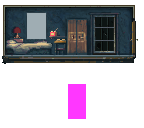
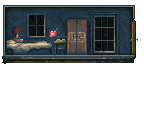
feat: imageLoad bad work(

Changed region(s): [[0.4722, 0.6562, 0.6111, 0.9375], [0.1667, 0.0938, 0.3333, 0.3125]]

diff --git a/src/org/anotherteam/render/GameRender.java b/src/org/anotherteam/render/GameRender.java
@@ -1,4 +1,5 @@
 package org.anotherteam.render;
+import static org.lwjgl.opengl.GL42.*;
 
 import lombok.val;
 import org.anotherteam.Game;
@@ -56,10 +57,10 @@ public final class GameRender {
         textureFrame.end();
 
         raycastShader.bind();
+
         raycastShader.setUniform("player_pos",
                 new Vector2i(EntityManager.player.getPosition().x, EntityManager.player.getPosition().y + 15));
-        raycastShader.setUniform("u_texture1", 1);
-        heightFrame.texture.bind(1);
+        glBindImageTexture(1, heightFrame.texture.getId(), 0, false, 0, GL_READ_ONLY, GL_RGBA8);
         raycastShader.setUniform("u_texture", 0);
         raycastFrame.texture.bind(0);
 

diff --git a/src/org/anotherteam/object/type/entity/player/Player.java b/src/org/anotherteam/object/type/entity/player/Player.java
@@ -8,7 +8,6 @@ import org.anotherteam.object.type.entity.EntityObject;
 import org.anotherteam.object.type.entity.EntityState;
 import org.anotherteam.util.exception.LifeException;
 import org.joml.Vector2i;
-import org.lwjgl.glfw.GLFW;
 
 public class Player extends EntityObject {
 
@@ -37,9 +36,9 @@ public class Player extends EntityObject {
         super.update(delta);
         float newMove = 0;
 
-        if (Input.isKeyDown(Input.KEY_W))
+        if (Input.isKeyPressed(Input.KEY_W))
             position.y += 1;
-        if (Input.isKeyDown(Input.KEY_S))
+        if (Input.isKeyPressed(Input.KEY_S))
             position.y -= 1;
 
         if (Input.isKeyDown(Input.KEY_A)) {

diff --git a/src/org/anotherteam/render/texture/Texture.java b/src/org/anotherteam/render/texture/Texture.java
@@ -47,6 +47,8 @@ public final class Texture {
 
         glBindTexture(GL_TEXTURE_2D, id);
 
+        glTexParameteri(GL_TEXTURE_2D, GL_TEXTURE_WRAP_S, GL_CLAMP_TO_BORDER);
+        glTexParameteri(GL_TEXTURE_2D, GL_TEXTURE_WRAP_T, GL_CLAMP_TO_BORDER);
         glTexParameterf(GL_TEXTURE_2D, GL_TEXTURE_MIN_FILTER, GL_NEAREST);
         glTexParameterf(GL_TEXTURE_2D, GL_TEXTURE_MAG_FILTER, GL_NEAREST);
 

diff --git a/src/org/anotherteam/render/framebuffer/FrameBuffer.java b/src/org/anotherteam/render/framebuffer/FrameBuffer.java
@@ -1,9 +1,9 @@
 package org.anotherteam.render.framebuffer;
+import static org.lwjgl.opengl.GL42.*;
+
 import org.anotherteam.render.texture.Texture;
 import org.anotherteam.util.exception.RenderException;
 import org.jetbrains.annotations.NotNull;
-
-import static org.lwjgl.opengl.GL42.*;
 
 public final class FrameBuffer {
 
